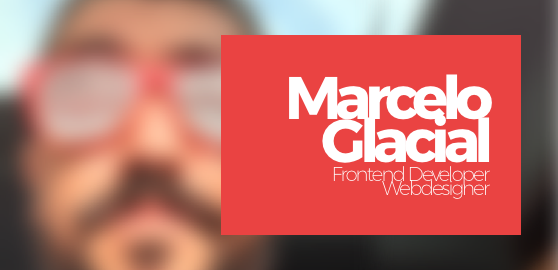
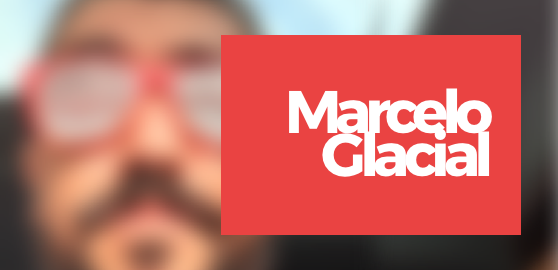
Remove webdsigner and change front-end references

Changed region(s): [[0.5179, 0.2667, 0.8835, 0.7407]]

diff --git a/index.html b/index.html
@@ -16,15 +16,15 @@
   <meta name="viewport" content="width=device-width, initial-scale=1, shrink-to-fit=no">
 
   <!-- Bio Meta -->
-  <title>Marcelo Glacial - Webdesigner and Frontend Developer</title>
+  <title>Marcelo Glacial - Front-end Developer</title>
   <meta name="robots" content="index, follow">
-  <meta name="description" content="Marcelo Glacial - Webdesigner and Frontend Developer" />
-  <meta name="keywords" content="Photoshop, Sketch, FrontEnd, Wedesign, Webdeveloper, Git, JS, Bootstrap, Angular"/>
+  <meta name="description" content="Marcelo Glacial - Front-end Developer" />
+  <meta name="keywords" content="Photoshop, Sketch, Front-End, Webdesign, Webdeveloper, Git, JS, Bootstrap, Angular"/>
 
 
   <!-- Icons Tags -->
   <meta property="og:title"              content="Marcelo Glacial" />
-  <meta property="og:description"        content="Webdesigner and Frontend Developer" />
+  <meta property="og:description"        content="Front-end Developer" />
   <meta property="og:image"              content="tile-wide.png" />
   <link rel="apple-touch-icon" href="apple-touch-icon.png">
 
@@ -48,8 +48,7 @@
       </header>
       <section class="skills">
         <ul>
-          <li>Frontend Developer</li>
-          <li>Webdsigner</li>
+          <li>Front-end Developer</li>
         </ul>
       </section>
       <section class="social">
@@ -57,14 +56,14 @@
         <ul>
           <li class="linkedin"><a href="https://www.linkedin.com/in/glacial/" title="Professioal Profile">Linkedin</a></li>
           <li class="behance"><a href="https://www.behance.net/marceloglacial" title="Design Projects">Behance</a></li>
-          <li class="github"><a href="https://github.com/marceloglacial" title="Frontend Projects">Github</a></li>
+          <li class="github"><a href="https://github.com/marceloglacial" title="Front-end Projects">Github</a></li>
           <li class="medium"><a href="https://medium.com/@glacial" title="Digital thoughts">Medium</a></li>
         </ul>
       </section>
     </div>
   </div>
 
-  <!-- Boostrap JS -->
+  <!-- JS -->
   <script src="js/jquery-3.2.1.min.js" charset="utf-8"></script>
 </body>
 </html>
